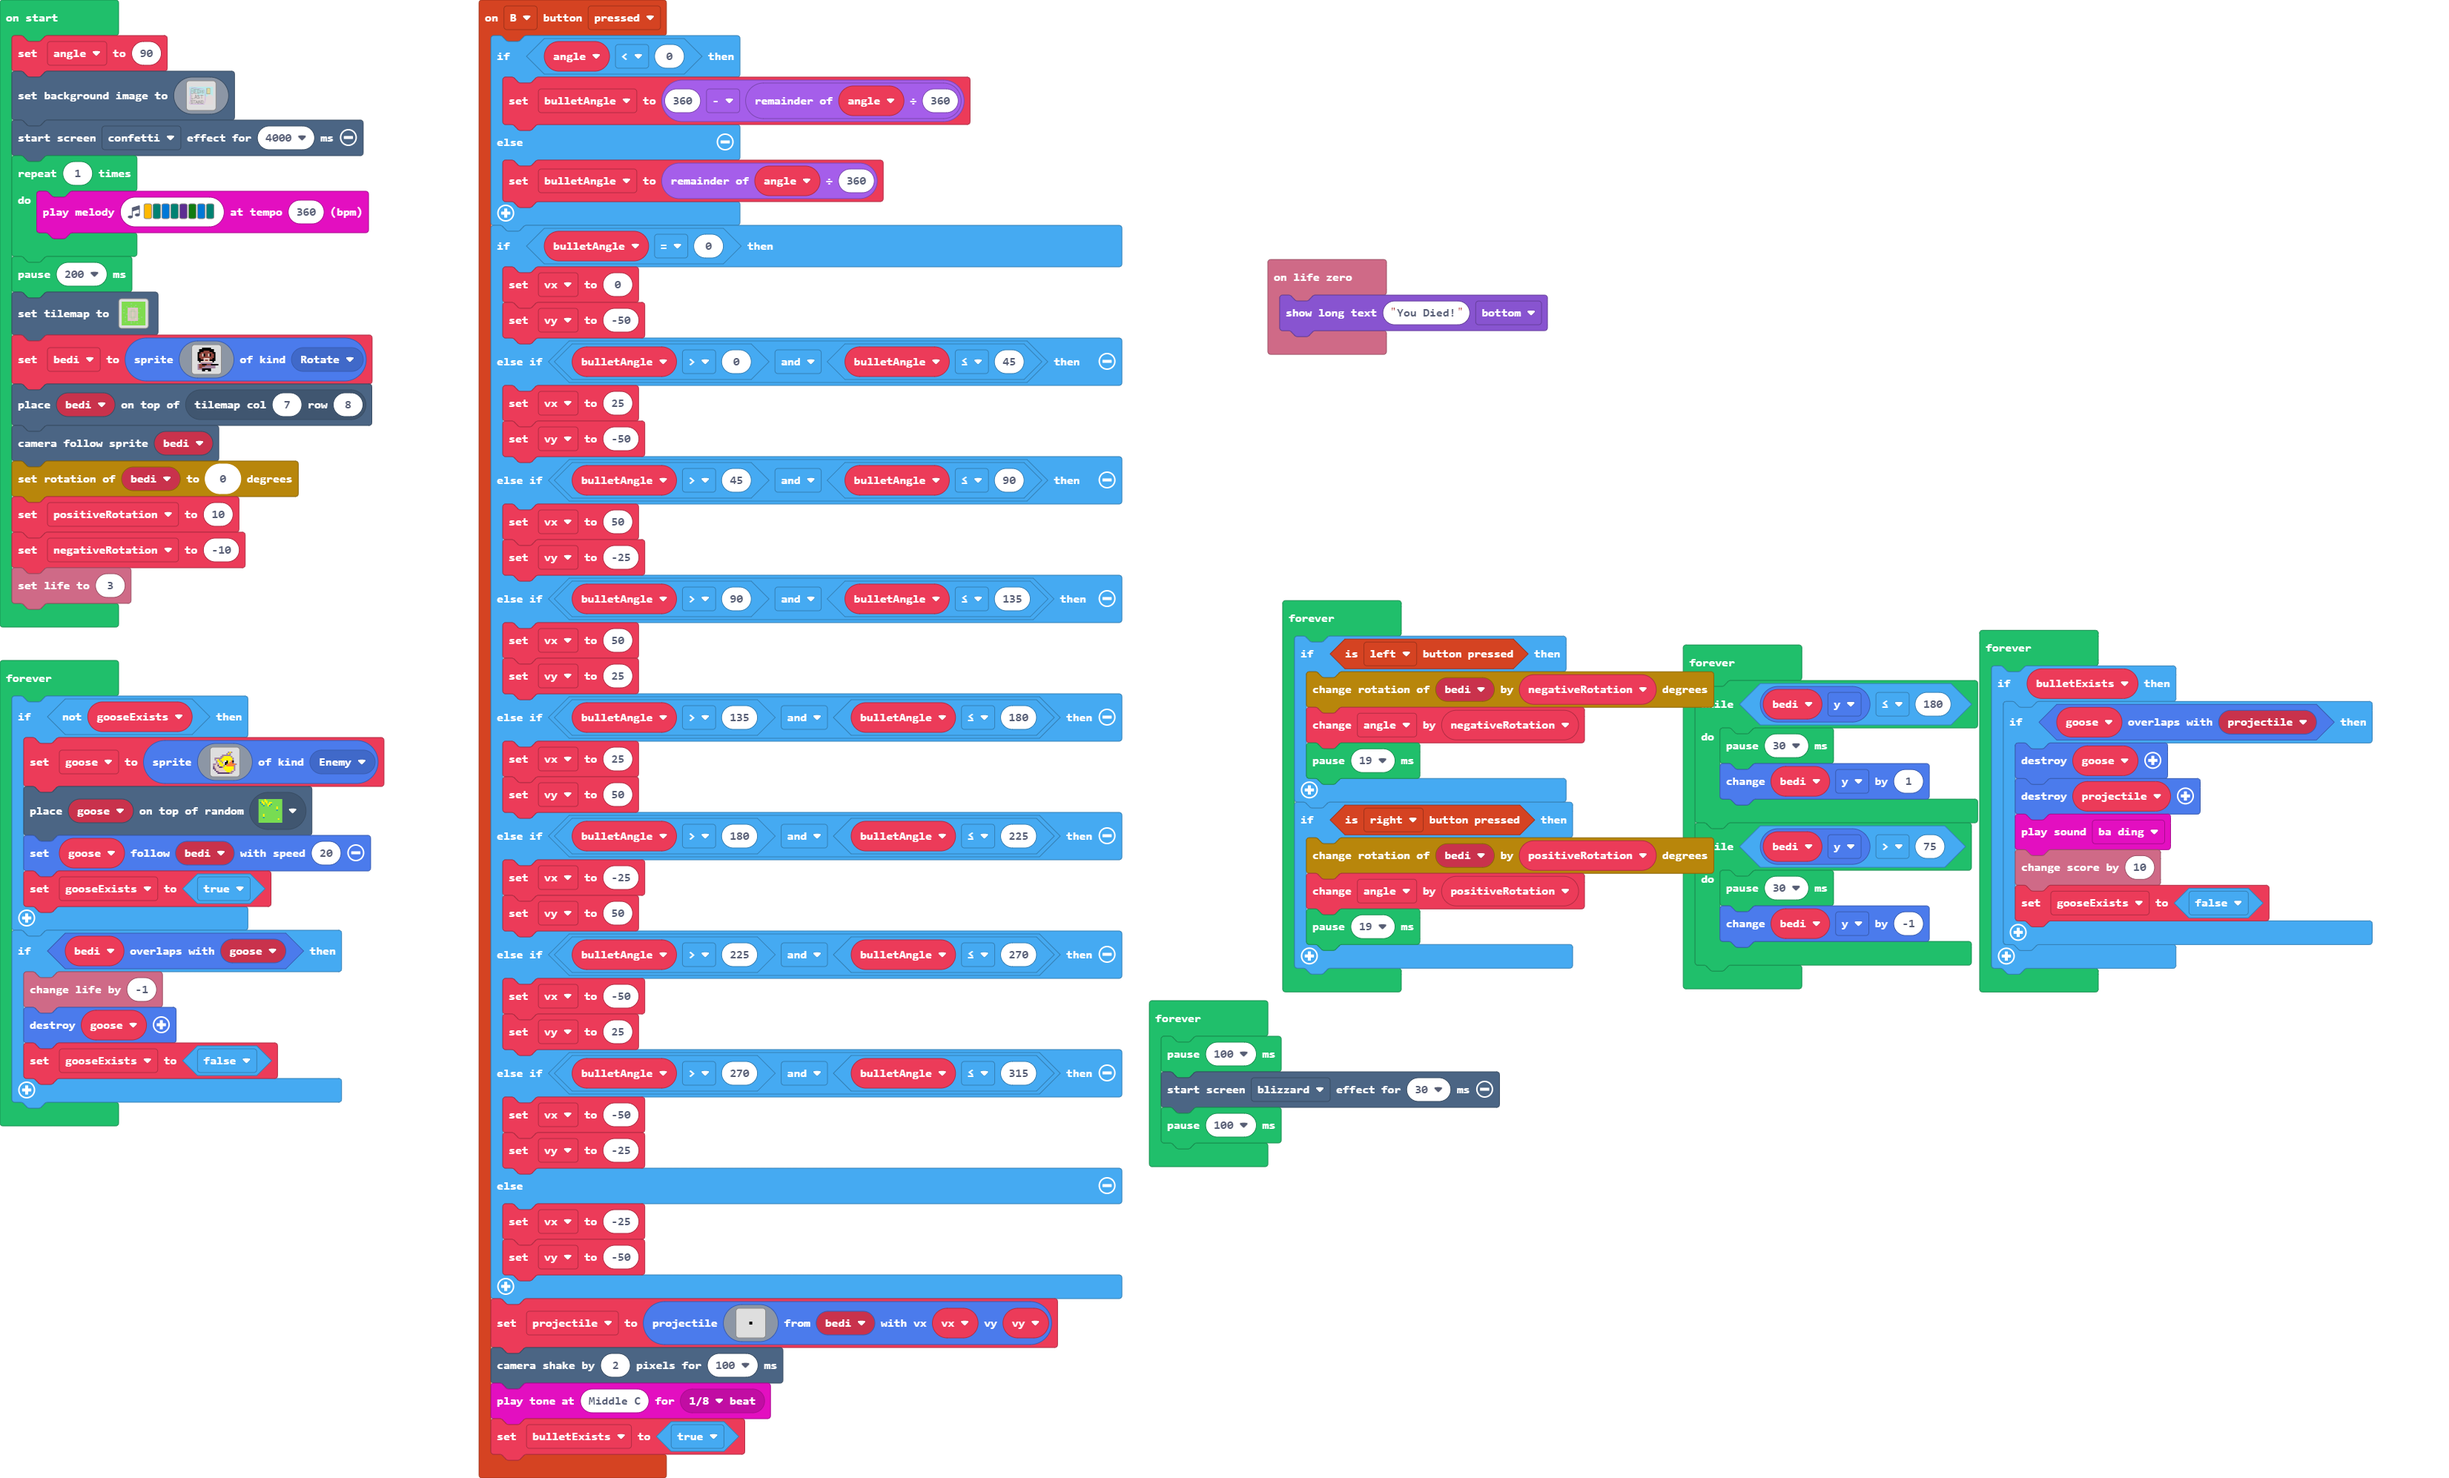
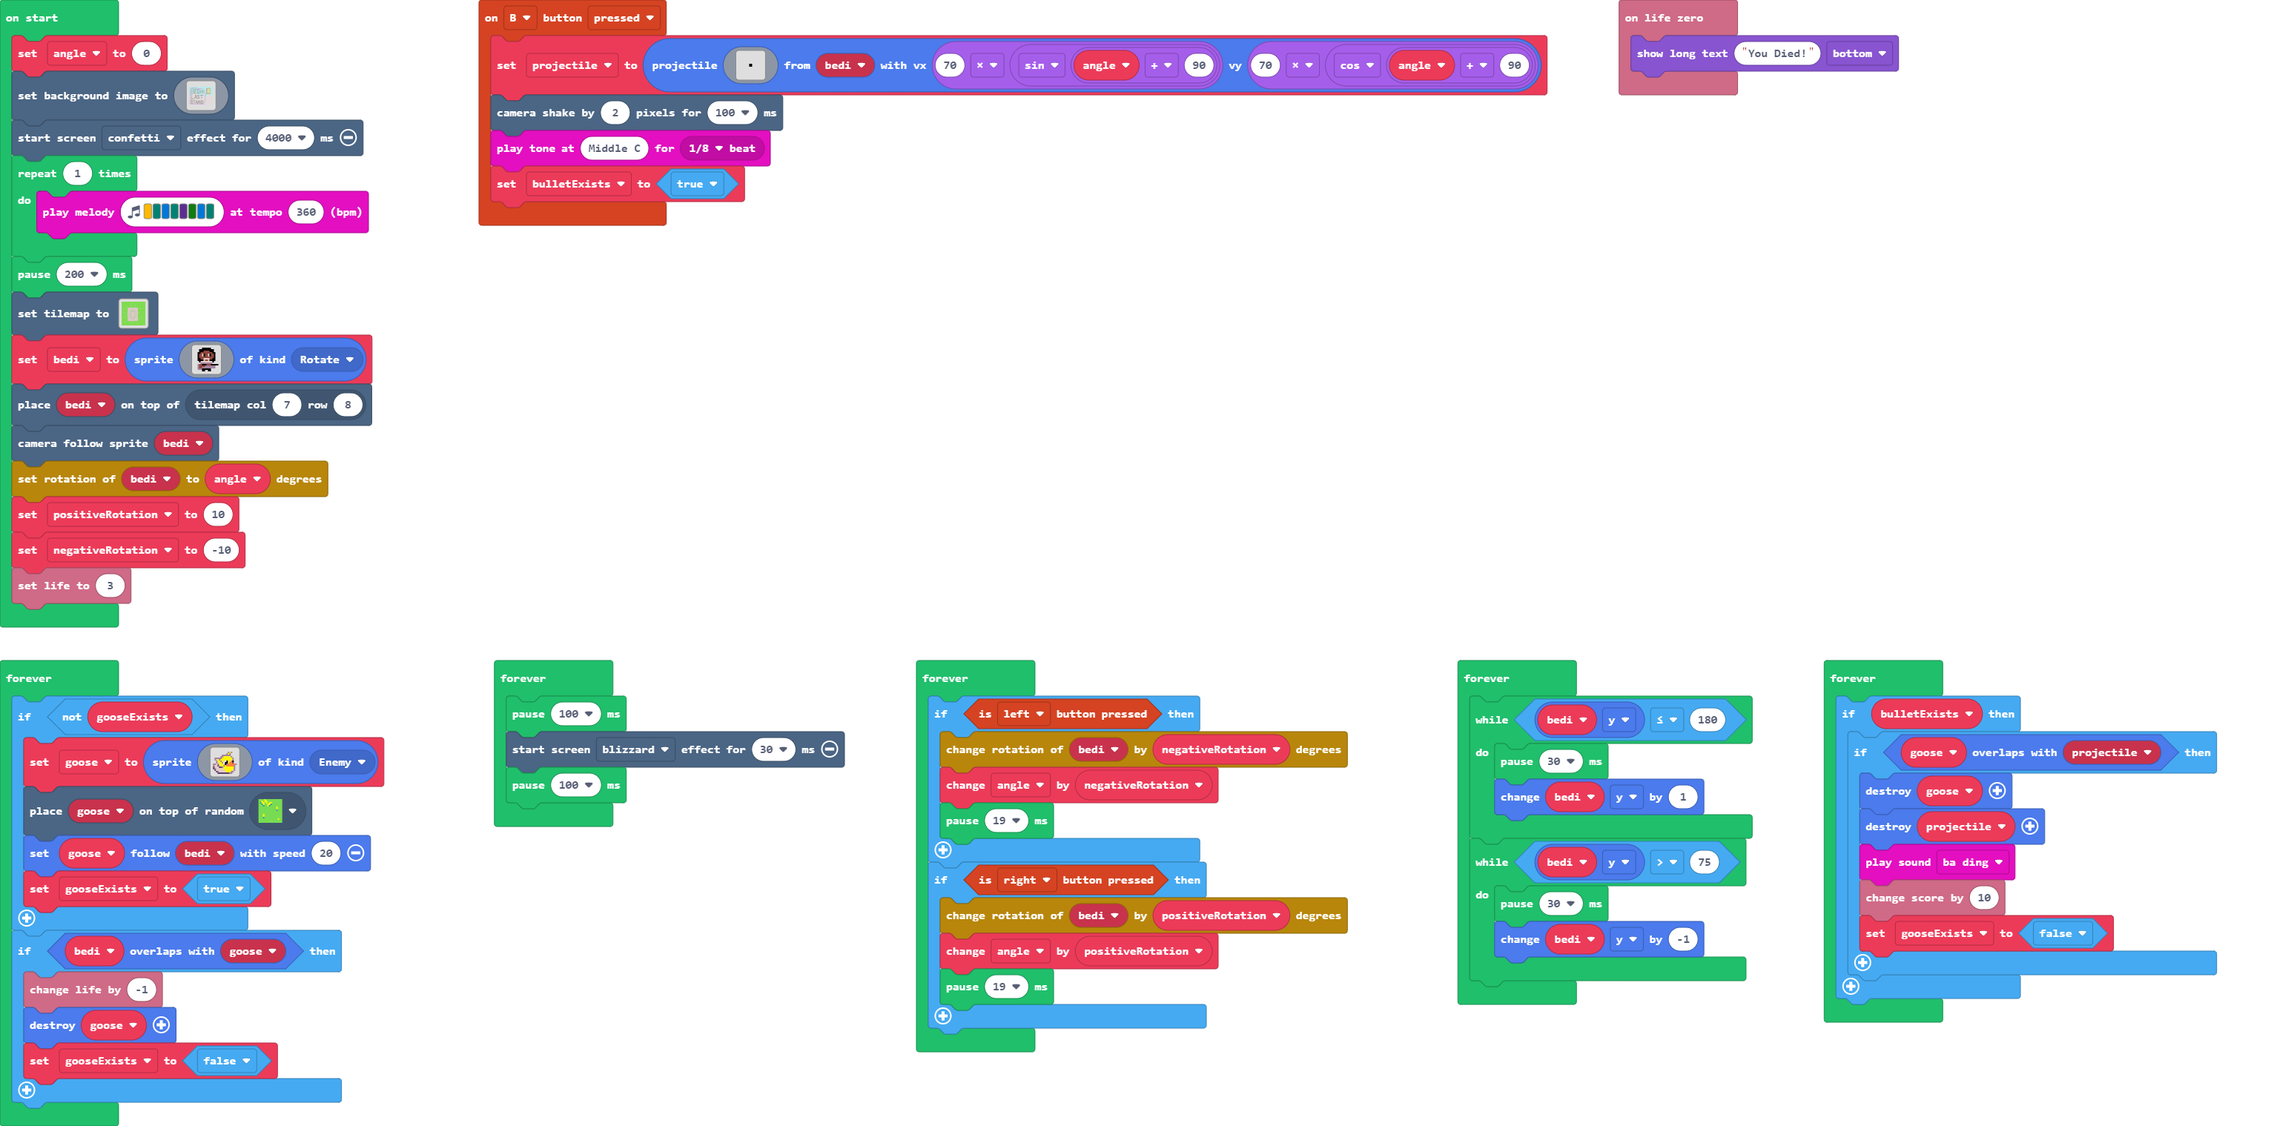
Update main.blocks, main.ts

diff --git a/main.ts b/main.ts
@@ -2,39 +2,6 @@ namespace SpriteKind {
     export const Rotate = SpriteKind.create()
 }
 controller.B.onEvent(ControllerButtonEvent.Pressed, function () {
-    if (angle < 0) {
-        bulletAngle = 360 - angle % 360
-    } else {
-        bulletAngle = angle % 360
-    }
-    if (bulletAngle == 0) {
-        vx = 0
-        vy = -50
-    } else if (bulletAngle > 0 && bulletAngle <= 45) {
-        vx = 25
-        vy = -50
-    } else if (bulletAngle > 45 && bulletAngle <= 90) {
-        vx = 50
-        vy = -25
-    } else if (bulletAngle > 90 && bulletAngle <= 135) {
-        vx = 50
-        vy = 25
-    } else if (bulletAngle > 135 && bulletAngle <= 180) {
-        vx = 25
-        vy = 50
-    } else if (bulletAngle > 180 && bulletAngle <= 225) {
-        vx = -25
-        vy = 50
-    } else if (bulletAngle > 225 && bulletAngle <= 270) {
-        vx = -50
-        vy = 25
-    } else if (bulletAngle > 270 && bulletAngle <= 315) {
-        vx = -50
-        vy = -25
-    } else {
-        vx = -25
-        vy = -50
-    }
     projectile = sprites.createProjectileFromSprite(img`
         . . . . . . . . . . . . . . . . 
         . . . . . . . . . . . . . . . . 
@@ -52,25 +19,21 @@ controller.B.onEvent(ControllerButtonEvent.Pressed, function () {
         . . . . . . . . . . . . . . . . 
         . . . . . . . . . . . . . . . . 
         . . . . . . . . . . . . . . . . 
-        `, bedi, vx, vy)
+        `, bedi, 70 * Math.sin(angle + 90), 70 * Math.cos(angle + 90))
     scene.cameraShake(2, 100)
     music.playTone(262, music.beat(BeatFraction.Eighth))
     bulletExists = true
 })
 info.onLifeZero(function () {
-    music.wawawawaa.play()
     game.showLongText("You Died!", DialogLayout.Bottom)
 })
 let goose: Sprite = null
 let gooseExists = false
 let bulletExists = false
 let projectile: Sprite = null
-let vy = 0
-let vx = 0
-let bulletAngle = 0
 let bedi: Sprite = null
 let angle = 0
-angle = 90
+angle = 0
 scene.setBackgroundImage(img`
     9999999999999999999999999999999999999999999999999999999999999999999999999999999999999999999999999999999999999999999999999999999999999999999999999999999999999999
     9999999999999999999999999999999999999999999999999999999999999999999999999999999999999999999999999999999999999999999999999999999999999999999999999999999999999999
@@ -219,10 +182,9 @@ bedi = sprites.create(img`
     `, SpriteKind.Rotate)
 tiles.placeOnTile(bedi, tiles.getTileLocation(7, 8))
 scene.cameraFollowSprite(bedi)
-transformSprites.rotateSprite(bedi, 0)
+transformSprites.rotateSprite(bedi, angle)
 let positiveRotation = 10
 let negativeRotation = -10
-let difficulty = 20
 info.setLife(3)
 forever(function () {
     if (!(gooseExists)) {
@@ -245,16 +207,19 @@ forever(function () {
             . . . c c c c c c c c b b . . . 
             `, SpriteKind.Enemy)
         tiles.placeOnRandomTile(goose, sprites.castle.tileGrass1)
-        goose.follow(bedi, difficulty)
+        goose.follow(bedi, 20)
         gooseExists = true
-        difficulty = difficulty + 1
     }
     if (bedi.overlapsWith(goose)) {
         info.changeLifeBy(-1)
-        music.powerDown.play()
         goose.destroy()
         gooseExists = false
     }
+})
+forever(function () {
+    pause(100)
+    effects.blizzard.startScreenEffect(30)
+    pause(100)
 })
 forever(function () {
     if (controller.left.isPressed()) {
@@ -288,9 +253,4 @@ forever(function () {
             gooseExists = false
         }
     }
-})
-forever(function () {
-    pause(100)
-    effects.blizzard.startScreenEffect(30)
-    pause(100)
 })
